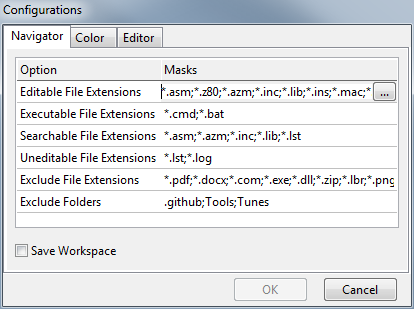
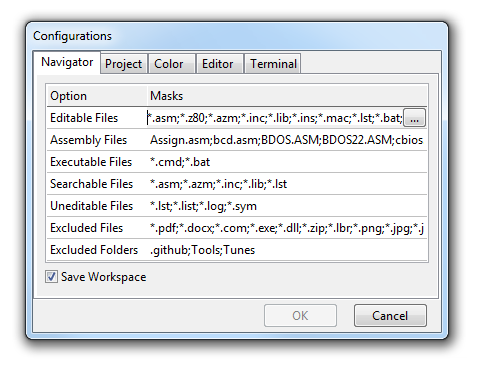
Updated documentation for 0.1.4 Pre-Release.

diff --git a/README.md b/README.md
@@ -1,7 +1,7 @@
 # Paleo Editor
 Paleo Editor for RomWBW Development
 
-The Paleo Editor is a source code editor designed specifically to help make modifying the [RomWBW](https://github.com/wwarthen/RomWBW) project easier. It does this by help managing all of the various files that part of the RomWBW project.
+The Paleo Editor is a source code editor designed specifically to help make modifying the [RomWBW](https://github.com/wwarthen/RomWBW) project easier. It does this by help managing all of the various files that are part of the RomWBW project.
 
 ![Image](./doc/image/PaleoEditor.PNG "Paleo Editor")
 
@@ -14,6 +14,21 @@ The Paleo Editor provides the user with an hierarchical view of the files and fo
   1. The RomWBW project folder can be opened to allow editing all of the relevant files of the RomWBW project.
   2. A specific assembled listing file can be opened that allows all the source code files referenced by that listing file to be edited. This allows the user to concentrate only on these referenced source code files.
 * Multiple projects can be opened simultaneously.
+* The Paleo Editor supports syntax highlighting for files types:
+  * BASIC
+  * Config (.ini)
+  * HTML (with preview)
+  * JSON
+  * Markdown (with preview)
+  * Pascal
+  * Spin
+  * XML
+  * Z80/Z180 Assembly
+* The Paleo Editor supports viewing file types:
+  * Image (Bitmap, Pixmap, PNG, JPEG, GIF, TIFF and Icon)
+  * PDF
+  * RichText
+  * ZIP
 * The Paleo Editor allows the execution of batch files (.bat, .cmd or .ps1). This allows the user to assembly the RomWBW project from the editor.
 * The user is able to configure the following:
   * The folders that are excluded from the hierarchical view.
@@ -37,13 +52,14 @@ The Paleo Editor provides the user with an hierarchical view of the files and fo
 * Text cannot be pasted into the *Search for:* field on the find pane.
 * The *Window* main menu option doesn't position correctly on the menu bar when a project is opened.
 * Building the RomWBW project (via the src\Build.cmd batch file) doesn't complete successfully by the *File* | *Execute Command...* main menu option. (It does successfully completed by the *File* | *Launch Execute...* main menu option.)
+* The Serial Terminal feature is only supported in 32-bit versions of the Paleo Editor.
+* The transfer of files using XMODEM in the Serial Terminal is not working.
 
 ## Missing Features
 
 * Online Help
 * User Documentation
 * Printing
-* PDF View
 * Check for Updates
 * Built-in Assembler
 * Build-in Simulator
@@ -52,7 +68,7 @@ The Paleo Editor provides the user with an hierarchical view of the files and fo
 
 [Windows installers](https://github.com/alloidian/PaleoEditor/releases) are provided to install 32- or 64-bit Microsoft Windows version of the Paleo Editor.
 
-The Paleo Editor can be installed for all users (which requires elevated access during installation) or only for the current user. Both the 32- and 64-bit version of Paleo may be installed side-by-side only on a 64-bit version of Windows and only for all users. (I can't think of a reason why both versions should be installed.)
+The Paleo Editor can be installed for all users (which requires elevated access during installation) or only for the current user. Both the 32- and 64-bit version of the Paleo Editor may be installed side-by-side only on a 64-bit version of Windows and only for all users. (I can't think of a reason why both versions should be installed.)
 
 The installers require Microsoft Windows Vista or later. 
 
@@ -61,6 +77,11 @@ The installers require Microsoft Windows Vista or later.
 The Paleo Editor project has only been designed to run on 32- and 64-bit versions of Microsoft Windows. At this time, there has been no effort to port the project to any other operating systems.
 
 The Paleo Editor project was developed with the Microsoft Windows 64-bit version of the Lazarus IDE, version 2.2.2 (dated 2022-07-10) and compiled with the Free Pascal Compiler (FPC) version 3.2.2.
+
+After the source code has been cloned or download from GitHub, additional, third-party software must be downloaded by running the following batch files:
+
+* src\HtmlViewer\Install.bat
+* src\MarkDown\Install.bat
 
 In order to work with and compile the project, these tools need to be installed onto your computer. Note: compiling this project on platforms other than Microsoft Windows (i.e., Linux or Macintosh) has not been tested.
 
